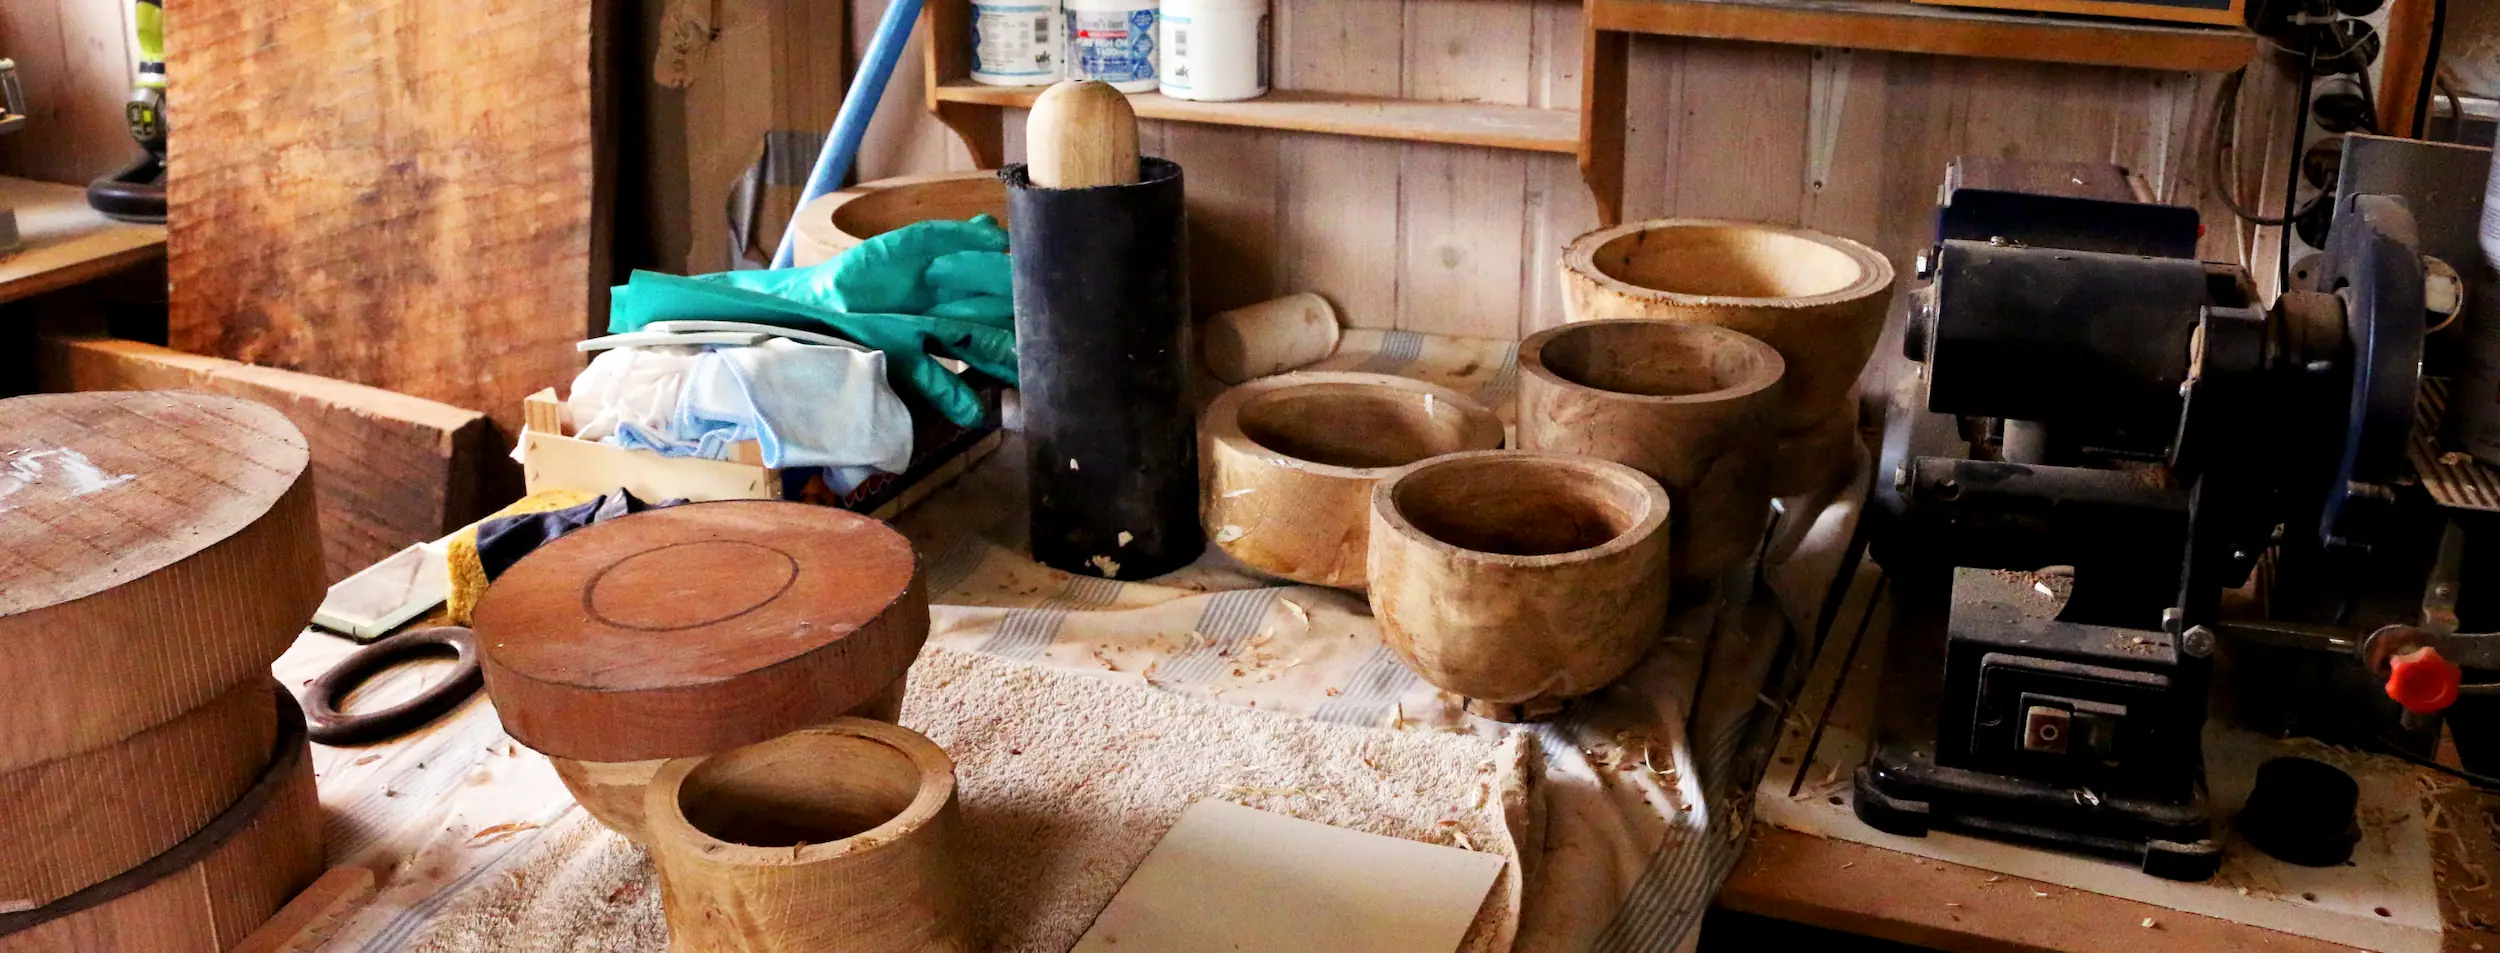
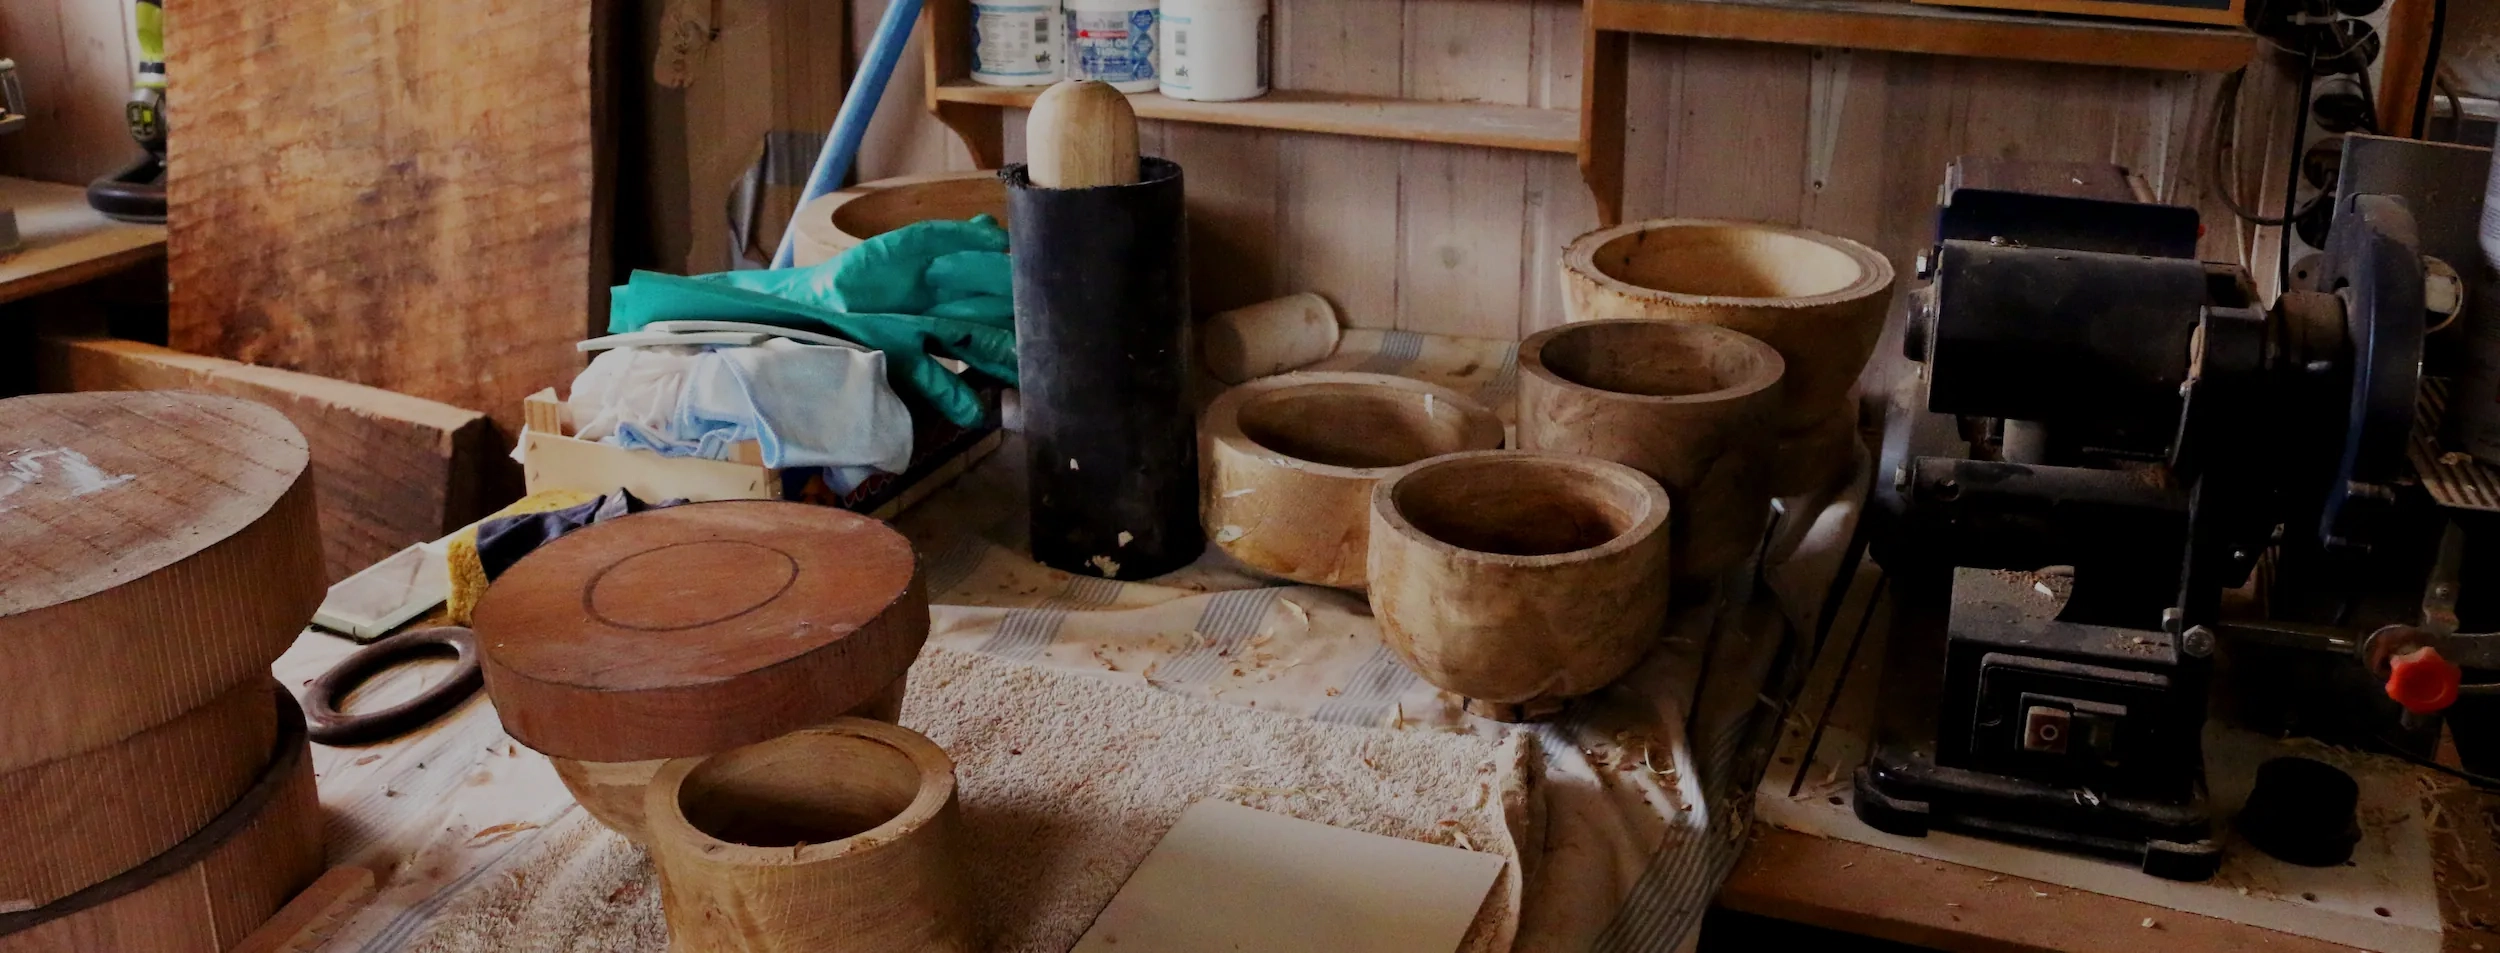
process hero

diff --git a/css/proces.css b/css/proces.css
@@ -84,11 +84,10 @@ body {
   padding: 10%;
 }
 .item_2_2 {
-  grid-column: 2;
-  padding-top: 20%;
-  padding-left: 10%;
-  padding-right: 20%;
-  padding-bottom: 22%;
+  display: block;
+  width: 100%;
+  height: 100%;
+  object-fit: cover;
 }
 .flex_c1 {
   padding-left: 5%;
@@ -146,7 +145,7 @@ body {
   font-size: 1.25rem;
   line-height: 2.125rem;
 }
-.over {
+.item_2_2 .over {
   padding-left: 2%;
   color: #b0413e;
 }
@@ -154,15 +153,18 @@ body {
   background-color: #dcd2c9;
 }
 .forsidebilde {
-  background-image: url(/imgs/drejebenk.webp);
+  background-image: url(/imgs/process1.webp);
   background-color: #f5ede5;
   background-size: cover;
-  height: 100vh;
+  height: 60vh;
   width: 100%;
   background-repeat: no-repeat;
-  align-items: center;
-  height: 100vh;
+  color: white;
   margin-bottom: 2em;
+  display: flex;
+  flex-direction: column;
+  justify-content: center;
+  align-items: center;
 }
 @media only screen and (min-width: 601px) and (max-width: 900px) {
   .top {

diff --git a/proces.html b/proces.html
@@ -25,8 +25,9 @@
       </nav>
     </header>
     <main>
-      <div class="forsidebilde"></div>
-      <div class="over"><h1>PROCES</h1></div>
+      <div class="forsidebilde">
+        <h1>PROCESS</h1>
+      </div>
       <div class="top">
         <p>
           Min drejebænk er en ældre, men nyrenoveret Promat drejebænk med

diff --git a/css/producter.css b/css/producter.css
@@ -9,7 +9,7 @@ footer {
   font-family: lora;
 }
 .h1bilde {
-  background-image: url(/imgs/IMG_4399\ \(1\)-kopi.webp);
+  background-image: url(/imgs/IMG_4399\\(1\)-kopi.webp);
   background-color: #f5ede5;
   background-size: cover;
   height: 80vh;
